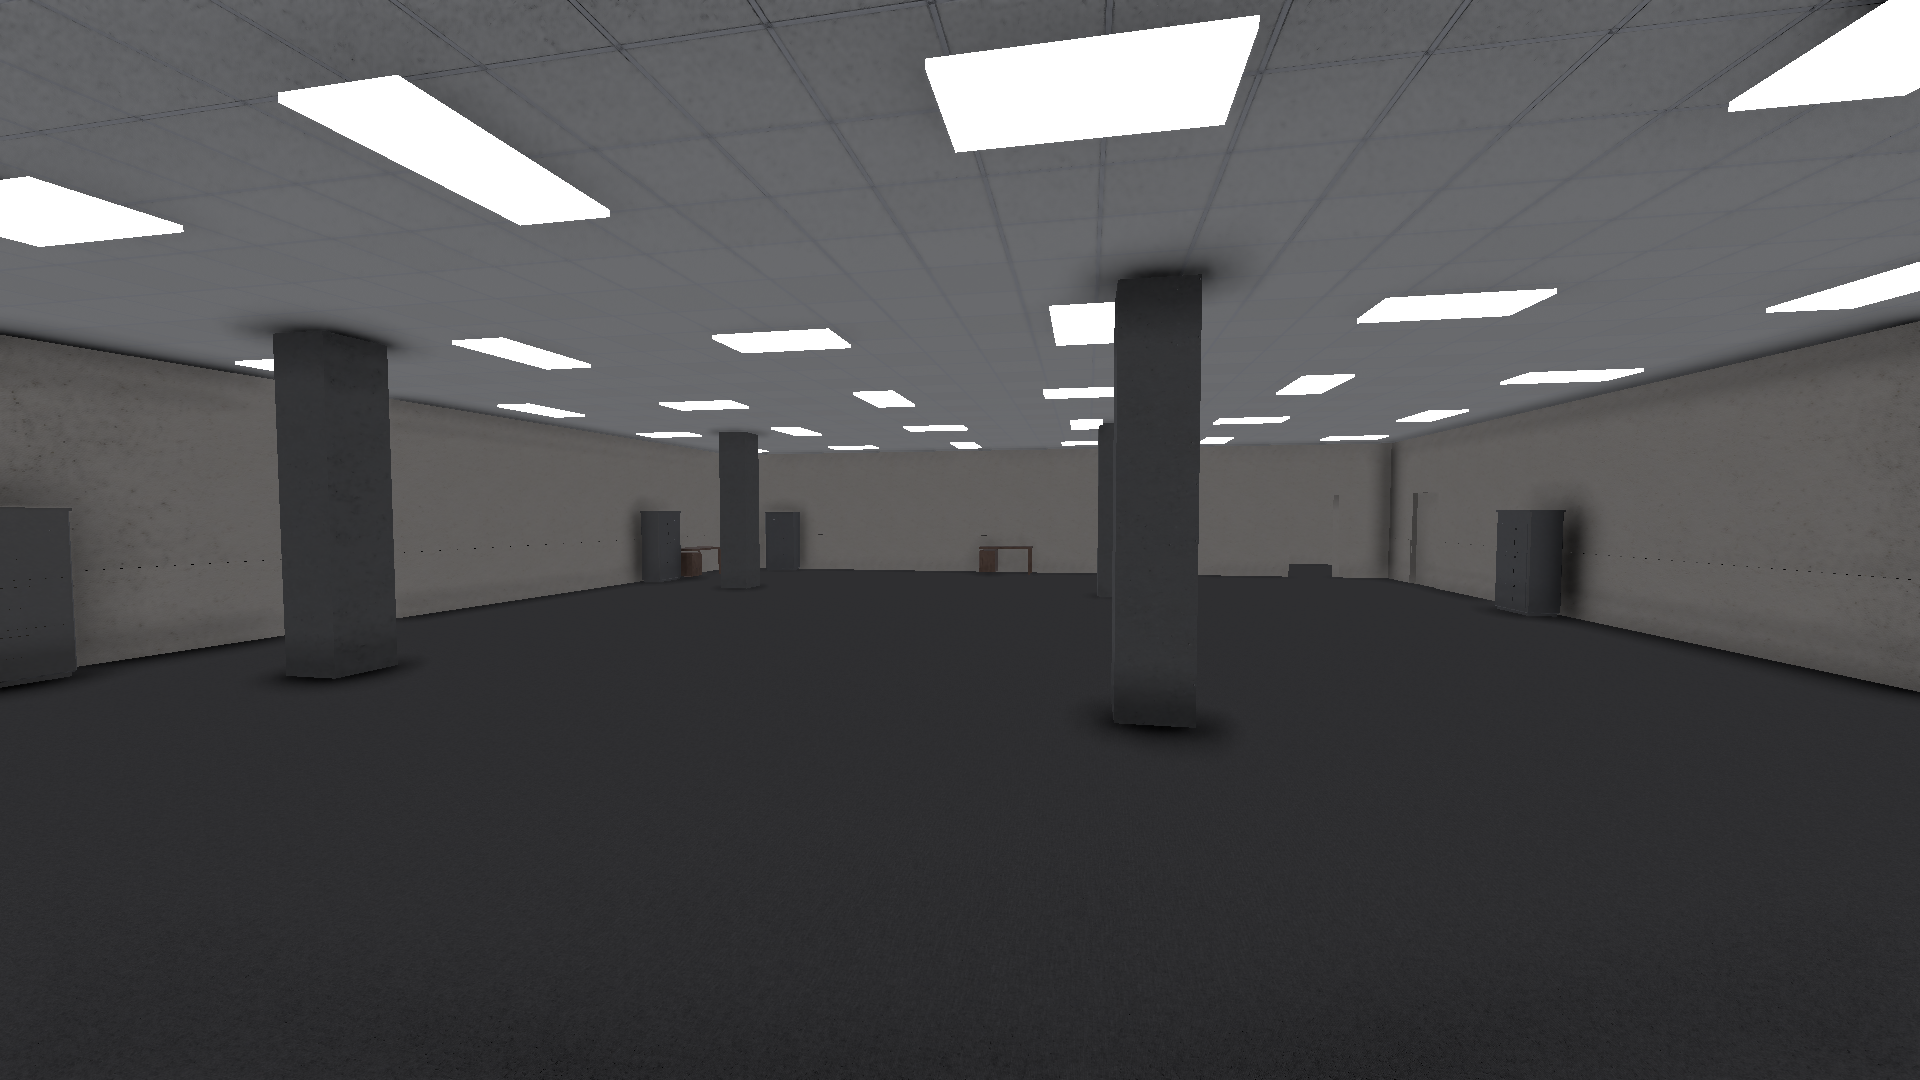
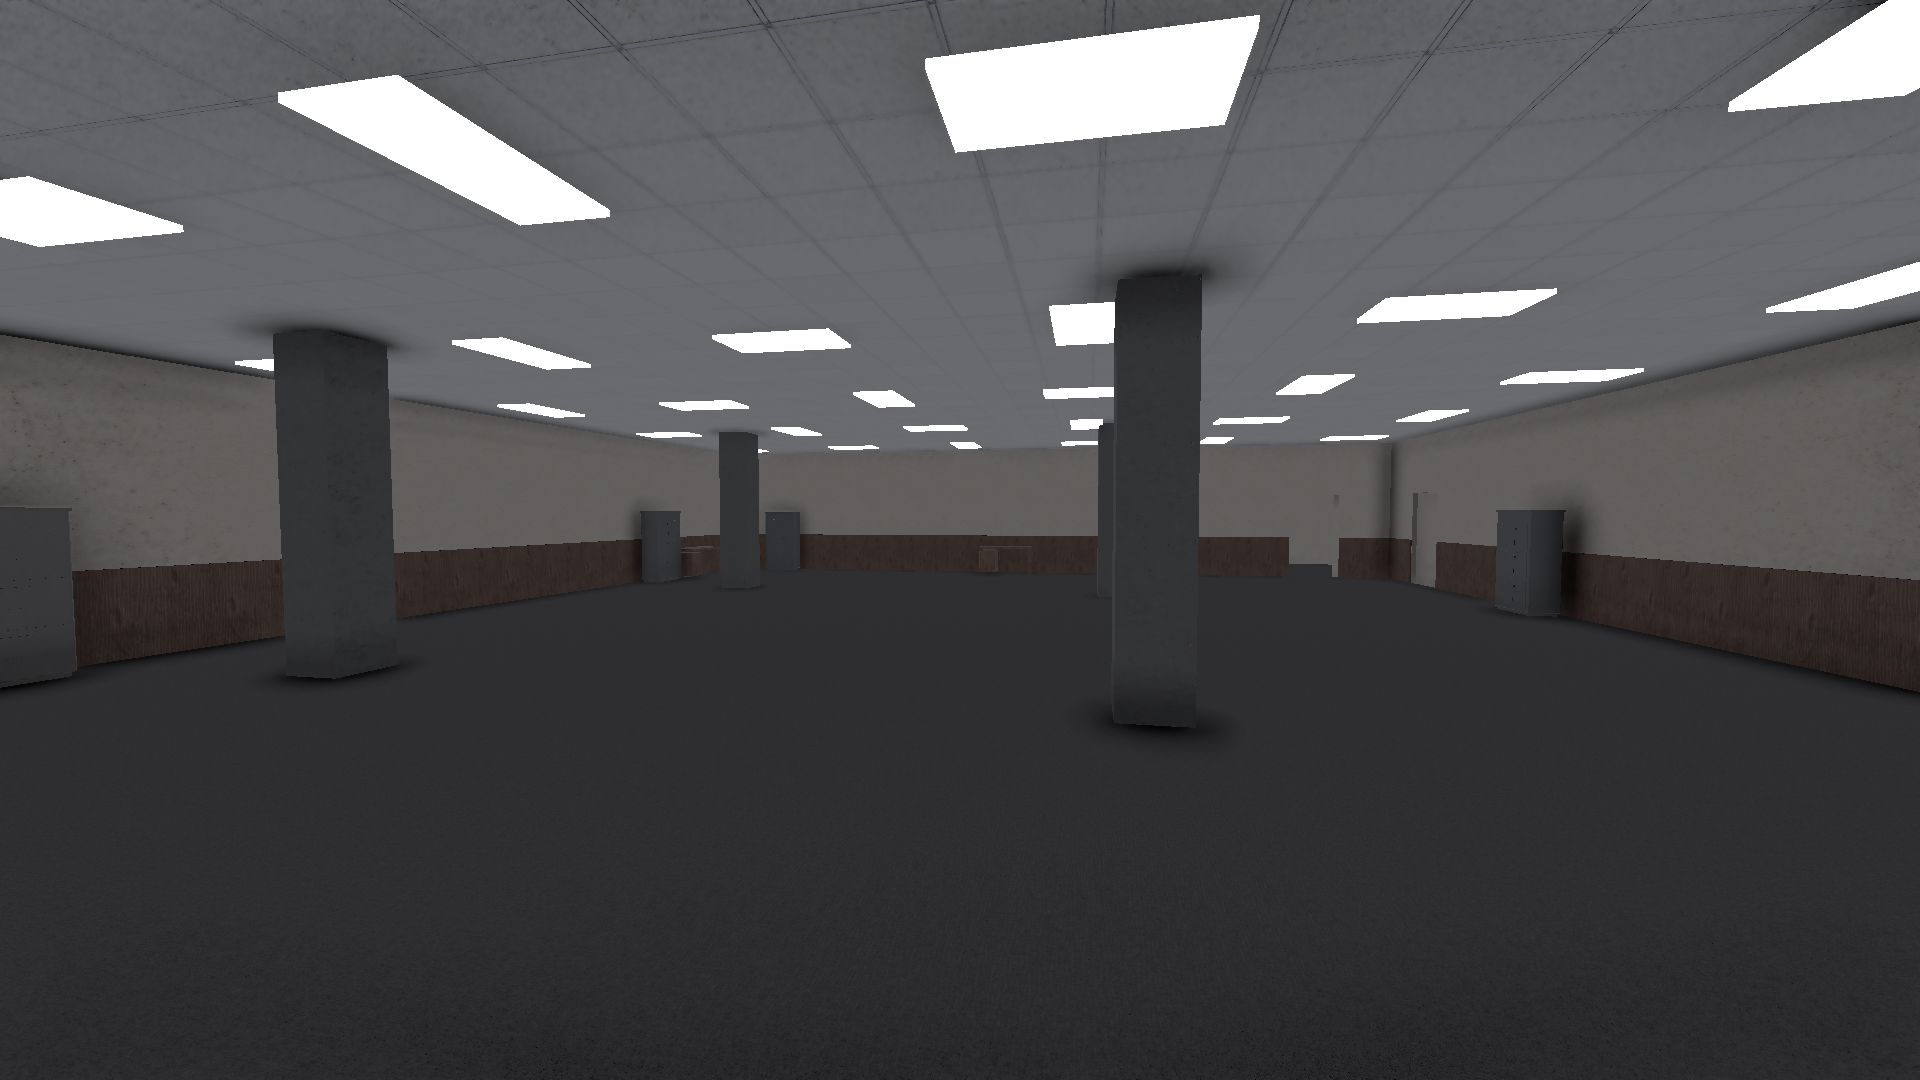
分区: 办公区墙裙换木色；修 FacilityCapture 反射取 BuildMaterials
- FacilityKind.Office 的 WallMaterial 由 PaintedWall 改 WoodPanel，1.02m 木色墙裙与深色地毯对比可见；
  RoomFinishTests 9/9 通过，facility-office.png 重拍。
- M1FloorScene.BuildMaterials 改 public 后 FacilityCapture 仍只按 NonPublic 反射，GetMethod 返回 null 抛 NRE；
  改成 Public|NonPublic|Static。

diff --git a/game/Assets/_Project/Scripts/LevelGen/FacilityGrammar.cs b/game/Assets/_Project/Scripts/LevelGen/FacilityGrammar.cs
@@ -167,7 +167,7 @@ namespace EscapeFromWork.LevelGen
 
         static readonly FacilityProfile[] Profiles =
         {
-            Profile(FacilityKind.Office,        "办公区",    60f, 300f, "CarpetTile",   "PaintedWall",   1.02f),
+            Profile(FacilityKind.Office,        "办公区",    60f, 300f, "CarpetTile",   "WoodPanel",     1.02f),
             Profile(FacilityKind.Meeting,       "会议室",    60f, 180f, "VenueCarpet",  "WoodPanel",     1.20f),
             Profile(FacilityKind.ServerHall,    "机房大厅", 220f, 900f, "CleanPanel",   "ServerPanel",   2.60f),
             Profile(FacilityKind.ServerRoom,    "机房",      60f, 220f, "CleanPanel",   "ServerPanel",   2.60f),

diff --git a/game/Assets/_Project/Scripts/Editor/FacilityCapture.cs b/game/Assets/_Project/Scripts/Editor/FacilityCapture.cs
@@ -95,7 +95,7 @@ namespace EscapeFromWork.EditorTools
         static FloorMaterials BuildMaterials()
         {
             MethodInfo method = typeof(M1FloorScene).GetMethod("BuildMaterials",
-                BindingFlags.NonPublic | BindingFlags.Static);
+                BindingFlags.Public | BindingFlags.NonPublic | BindingFlags.Static);
             return (FloorMaterials)method.Invoke(null, null);
         }
 

diff --git a/docs/3d-rebuild/11-todo-handover.md b/docs/3d-rebuild/11-todo-handover.md
@@ -260,6 +260,7 @@
 
 - `FacilityProfile.WallBandHeight`：洁净/机房/冷库/控制室/隔离/洁净间/卫生间 2.60m，管井 2.40，管廊/储罐 1.80，车间 1.60，变电/装卸 1.40，其余 1.02–1.20；`FloorGeometry.EmitRoomSurfaces` 按它出 `RoomBand_*`。`RoomFinishTests` 9/9（新增 `CleanFacilities_BandAlmostReachesTheCeiling`）。
 - 新工具 `game/Assets/_Project/Scripts/Editor/FacilityCapture.cs`（菜单 `Escape From Work/M1/Capture Facility Rooms`）按 FacilityKind 各拍一张 `docs/3d-rebuild/screenshots/facility-<kind>.png`；seed=1 本层只有 12 类设施（无 ServerHall/CleanRoom/IsolationRoom/Archive/PipeGallery），机房/医疗主题要靠主题配比补。
+- 办公区墙裙材质改成 `WoodPanel`（原来是 PaintedWall，和底墙同色看不出踢脚）；facility-office.png 已换成木色墙裙。
 - 办公区 `PaintedWall` 墙裙与基础墙同色，1.02m 踢脚几乎看不出来（待换色/换材质）。
 - T3 多楼层运行时只起了骨架（`TowerRuntime`/`TowerSetup`/`TowerCapture`），因 Gameplay→LevelGen 的 asmdef 引用与 `FloorPlan.Width/Height` 编译问题在 21:30 前回滚，未提交；下次从「阶 assembly 引用 + FloorPlan 尺寸取 Spec」重新开始。
 
